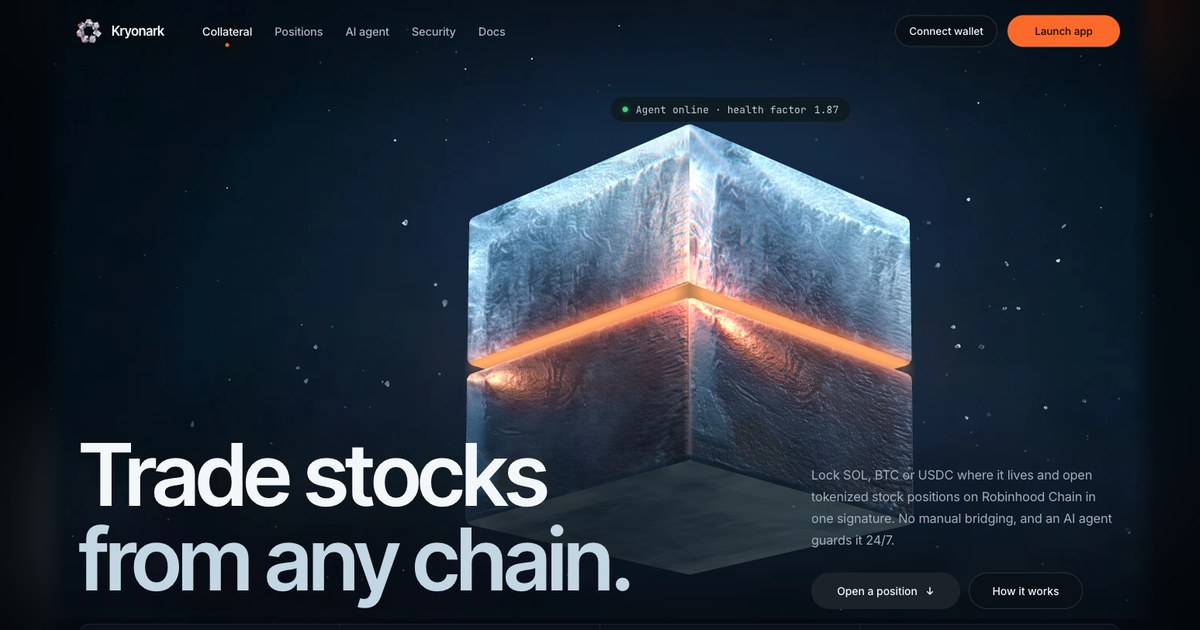
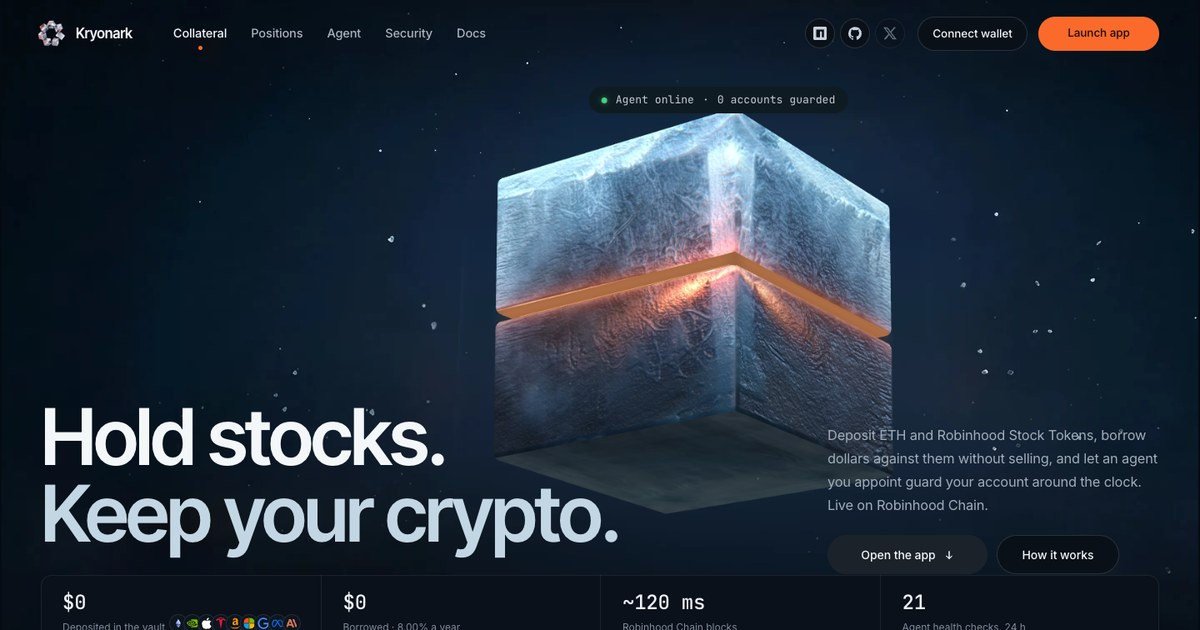
Mainnet: README with live contracts, lighter agent RPC load, new share image

diff --git a/README.md b/README.md
@@ -1,62 +1,62 @@
 # Kryonark
 
-**Trade stocks from any chain.** Kryonark is an omnichain collateral engine for tokenized stocks on Robinhood Chain: lock SOL, BTC or USDC on the chain where it already lives, open stock positions on Robinhood Chain in one signature, and let an AI agent top up collateral before a position can be liquidated.
+**Hold stocks. Keep your crypto.** Kryonark is a lending vault on Robinhood Chain: deposit ETH and Robinhood Stock Tokens as collateral, borrow dollars (USDG) against them without selling, and appoint a guardian agent that can top up your collateral from your own buffer and can never withdraw.
 
-[kryonark.xyz](https://kryonark.xyz) · [npm](https://www.npmjs.com/package/kryonark) · `npx kryonark`
+[kryonark.xyz](https://kryonark.xyz) · [docs](https://kryonark.xyz/docs) · [security](https://kryonark.xyz/security) · [npm](https://www.npmjs.com/package/kryonark) · `npx kryonark`
 
 ![Kryonark](web/assets/og.jpg)
+
+## Live contracts
+
+| | Robinhood Chain mainnet (4663) |
+|---|---|
+| KryonarkVault | [`0x857C224f9896c9A0F17f564D9C8Ba9Cf73802764`](https://robinhoodchain.blockscout.com/address/0x857C224f9896c9A0F17f564D9C8Ba9Cf73802764) |
+| KryoOracle | [`0xBbeAd3C159b4f722a059bB508F51a01944Db41c8`](https://robinhoodchain.blockscout.com/address/0xBbeAd3C159b4f722a059bB508F51a01944Db41c8) |
+| Debt asset | USDG `0x5fc5360D0400a0Fd4f2af552ADD042D716F1d168` |
+| Collateral | ETH (80%), NVDA, AAPL, TSLA, AMZN, MSFT, GOOGL, META, ANT (70%) |
+| Prices | Chainlink for ETH and seven stocks; ANT and USDG pushed by the agent (each update capped at 25%) |
+| Source | Verified on [Sourcify](https://repo.sourcify.dev/4663/0x857C224f9896c9A0F17f564D9C8Ba9Cf73802764) (exact match) |
+
+The same code was run end to end on Robinhood Chain testnet (46630) before mainnet: deposit, borrow, a real agent top-up (health 1.28 → 1.50), repay and withdraw. All addresses also live at [`/assets/network.json`](https://kryonark.xyz/assets/network.json).
+
+## How it works
+
+- **Health** = Σ(collateral value × weight) ÷ debt. ETH counts 80%, Stock Tokens 70%. Borrowing or withdrawing must leave health at **1.25** or more; below **1.00** anyone can liquidate up to half the debt at a 5% bonus.
+- **The guardian agent** (an address you appoint with `setGuardian`, up to 90 days, revocable) can call exactly one function, `guardTopUp`, which moves your ETH buffer into your collateral while your health is below **1.30**. The Kryonark agent checks every account every few seconds and tops up to about 1.50.
+- **Lenders** supply USDG and own shares of the pool's cash plus outstanding debt; borrowers pay a simple yearly rate (8%) into it.
+- **Pause** stops new deposits and borrowing only. Repaying and withdrawing always work.
+- **Intents**: the site turns sentences (English or Indonesian) like `Borrow $50` or `Protect my account with 0.05 ETH` into the matching call for your wallet to sign.
 
 ## What is in this repo
 
 | Folder | What it is |
 |---|---|
-| [`web/`](web) | The site at kryonark.xyz. Static HTML, CSS and JS, no build step. A real-time 3D ice vault (three.js, bundled), live collateral prices, health factors and the intent box. |
-| [`studio/`](studio) | The owner panel at kryonark.xyz/studio: set the token CA (it then shows on the site), a buyback wallet (encrypted on the server), buyback and burn, supply burn, history. Node + ethers. |
-| [`packages/kryonark/`](packages/kryonark) | The engine as an npm package and CLI: health factors, the liquidation guard, plain-language intents, live prices. No dependencies. |
-| [`deploy/`](deploy) | nginx config and the deploy script for the VPS. |
-
-## The engine
-
-- **Health** = collateral value × 0.8 ÷ position value. Below 1.00 a position can be liquidated; below 1.30 the agent steps in.
-- **Collateral stays home.** SOL on Solana, USDC on Base, BTC on Bitcoin, ETH on Arbitrum; positions (NVDA, AAPL, AMZN, TSLA) live on Robinhood Chain.
-- **The agent** reads prices every block and moves USDC from the buffer you allowed, through a session key that can only add collateral.
-- **Intents in plain words**, English or Indonesian:
-  - `Protect NVDA if SOL drops 10%`
-  - `Lindungi AAPL kalau USDC turun 5%`
-  - `Close TSLA`
-  - `Rotate yield to USDC`
+| [`contracts/`](contracts) | `KryonarkVault`, `KryoOracle` (Chainlink feeds with a bounded pushed fallback) and `TestUSD` (testnet only). Foundry, 13 tests. |
+| [`agent/`](agent) | The guardian agent: pushes prices for assets without a Chainlink feed, watches every account, tops up guarded ones, serves `/agent/api/status`. Its key is created on the server and never leaves it. |
+| [`web/`](web) | kryonark.xyz. Static HTML/CSS/JS: the 3D ice vault, wallet connect (EIP-6963), the live vault, the intent box, docs and security pages. |
+| [`studio/`](studio) | Owner panel at /studio: deploy the contracts from the owner's browser wallet, token CA, buyback and burn. |
+| [`packages/kryonark/`](packages/kryonark) | `npx kryonark`: read the live vault, any account's health, the agent's heartbeat. No dependencies. |
+| [`deploy/`](deploy) | nginx config and the deploy script. |
 
 ```bash
-npx kryonark                                   # live example book
-npx kryonark plan "Protect NVDA if SOL drops 10%"
+npx kryonark                    # protocol totals, prices, the agent
+npx kryonark account 0xYourAddr # collateral, debt, health
 ```
 
-## Run locally
+## Develop
 
 ```bash
-# site
-cd web && python3 -m http.server 5820          # http://127.0.0.1:5820
-
-# studio (needs Node 18+)
-cd studio && npm install && PORT=5830 node server/server.mjs   # http://127.0.0.1:5830/studio
-# the studio key is generated on first start in studio/data/burn/secrets.json (never commit data/)
-
-# engine
-cd packages/kryonark && npm test && node bin/kryonark.mjs
+cd contracts && forge test                       # 13 tests
+cd packages/kryonark && npm test
+cd web && python3 -m http.server 5820            # the site, reads assets/network.json
 ```
 
-## Deploy
+## Risks
 
-`deploy/deploy.sh` syncs `web/` to `/var/www/kryonark/web` and runs the studio under pm2 on `127.0.0.1:5830`.
-nginx (`deploy/nginx-kryonark.conf`) serves the site and proxies `/studio` to the studio. TLS via Let's Encrypt.
-
-## Status
-
-The site's portfolio is an example with live collateral prices; the agent on the page is a simulation. Nothing here holds user funds. The studio's buyback and burn send real transactions from the owner's own wallet, capped per run and per day.
+Not audited yet; the owner key is a single wallet today and should move to a multisig with a timelock before the caps go up. Robinhood can pause, block or burn Stock Tokens. Stock Tokens may not be offered to US persons, so Kryonark isn't for US persons. Details: [kryonark.xyz/security](https://kryonark.xyz/security).
 
 ## Credits
 
-- 3D: [three.js](https://threejs.org) r160 (MIT), bundled in `web/assets/vendor/three`.
-- Network and token logos: [web3icons](https://github.com/0xa3k5/web3icons) (MIT). Stock logos: [Simple Icons](https://simpleicons.org) (CC0). Brand logos stay the property of their owners and are used only to name the networks and assets involved.
+three.js r160 (MIT) · ethers 6.13.4 (MIT) · forge-std (MIT/Apache-2.0) · network and token logos from [web3icons](https://github.com/0xa3k5/web3icons) (MIT) · stock logos from [Simple Icons](https://simpleicons.org) (CC0). Brand logos stay the property of their owners and are used only to name the assets involved.
 
 MIT
